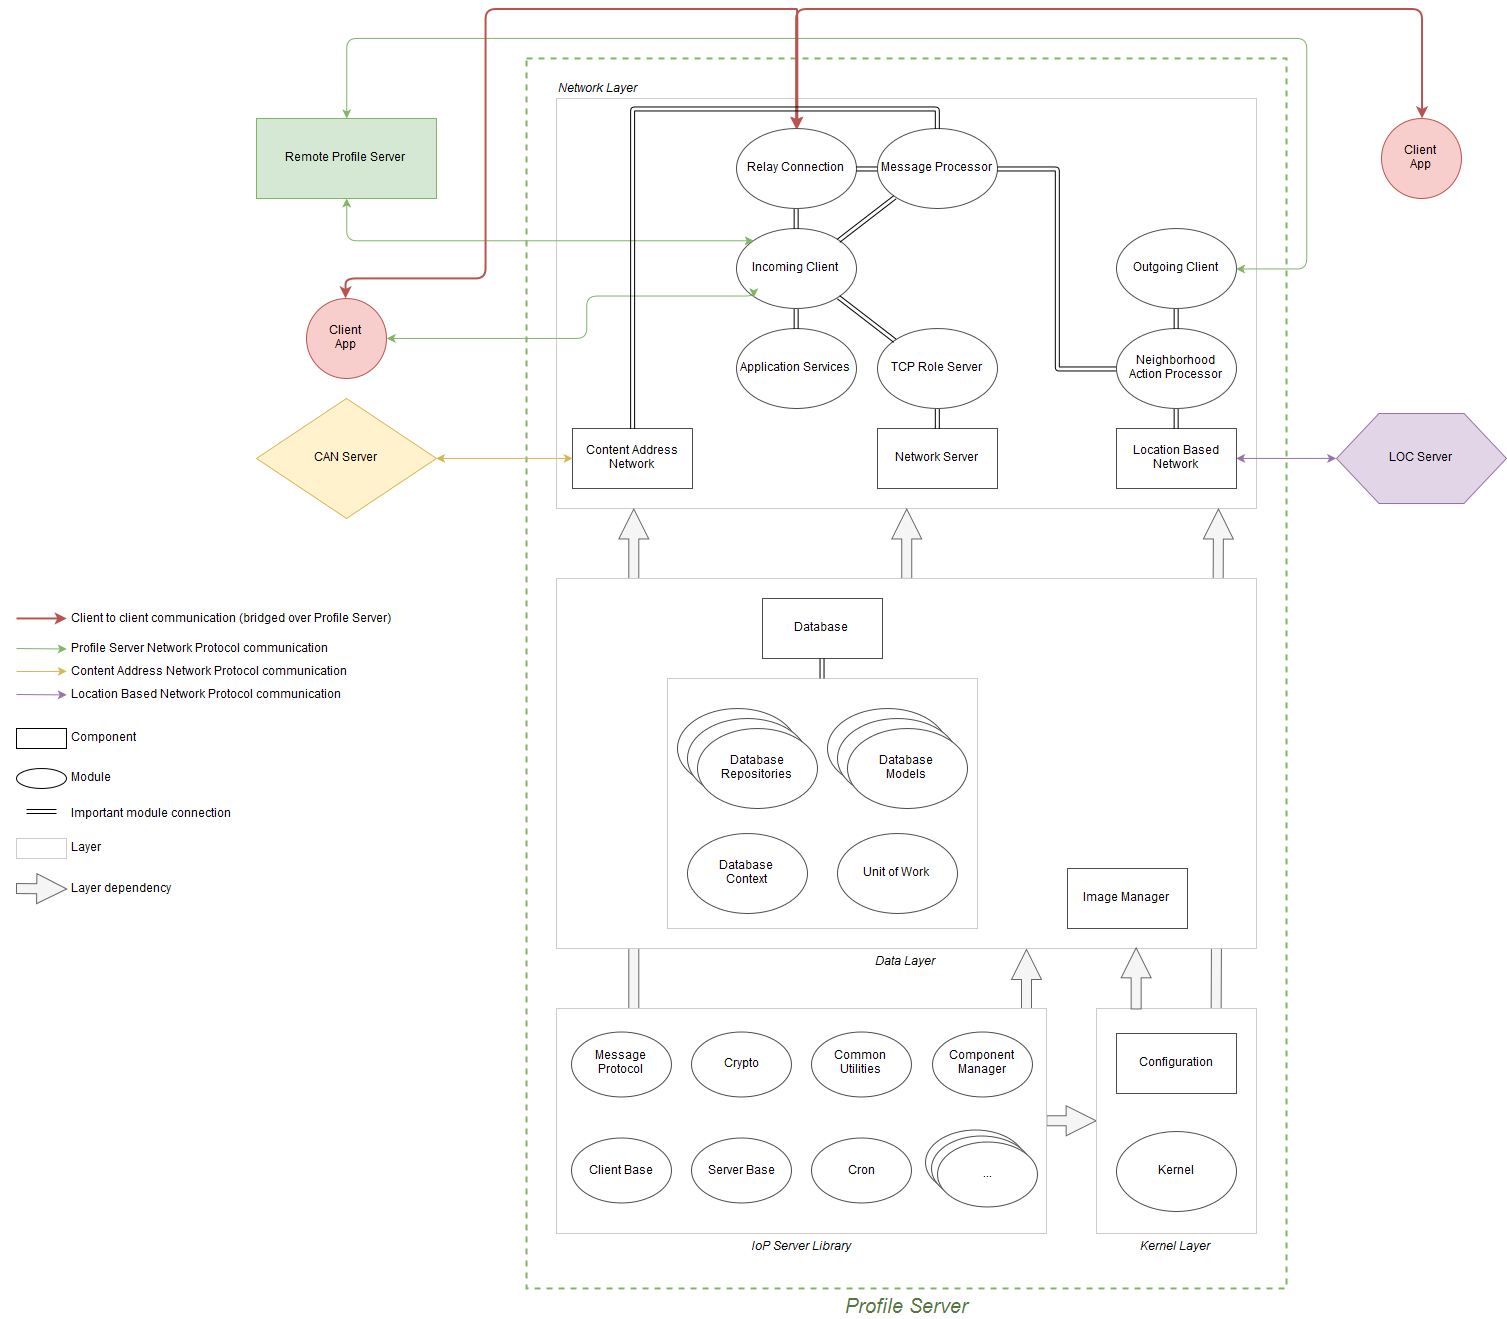
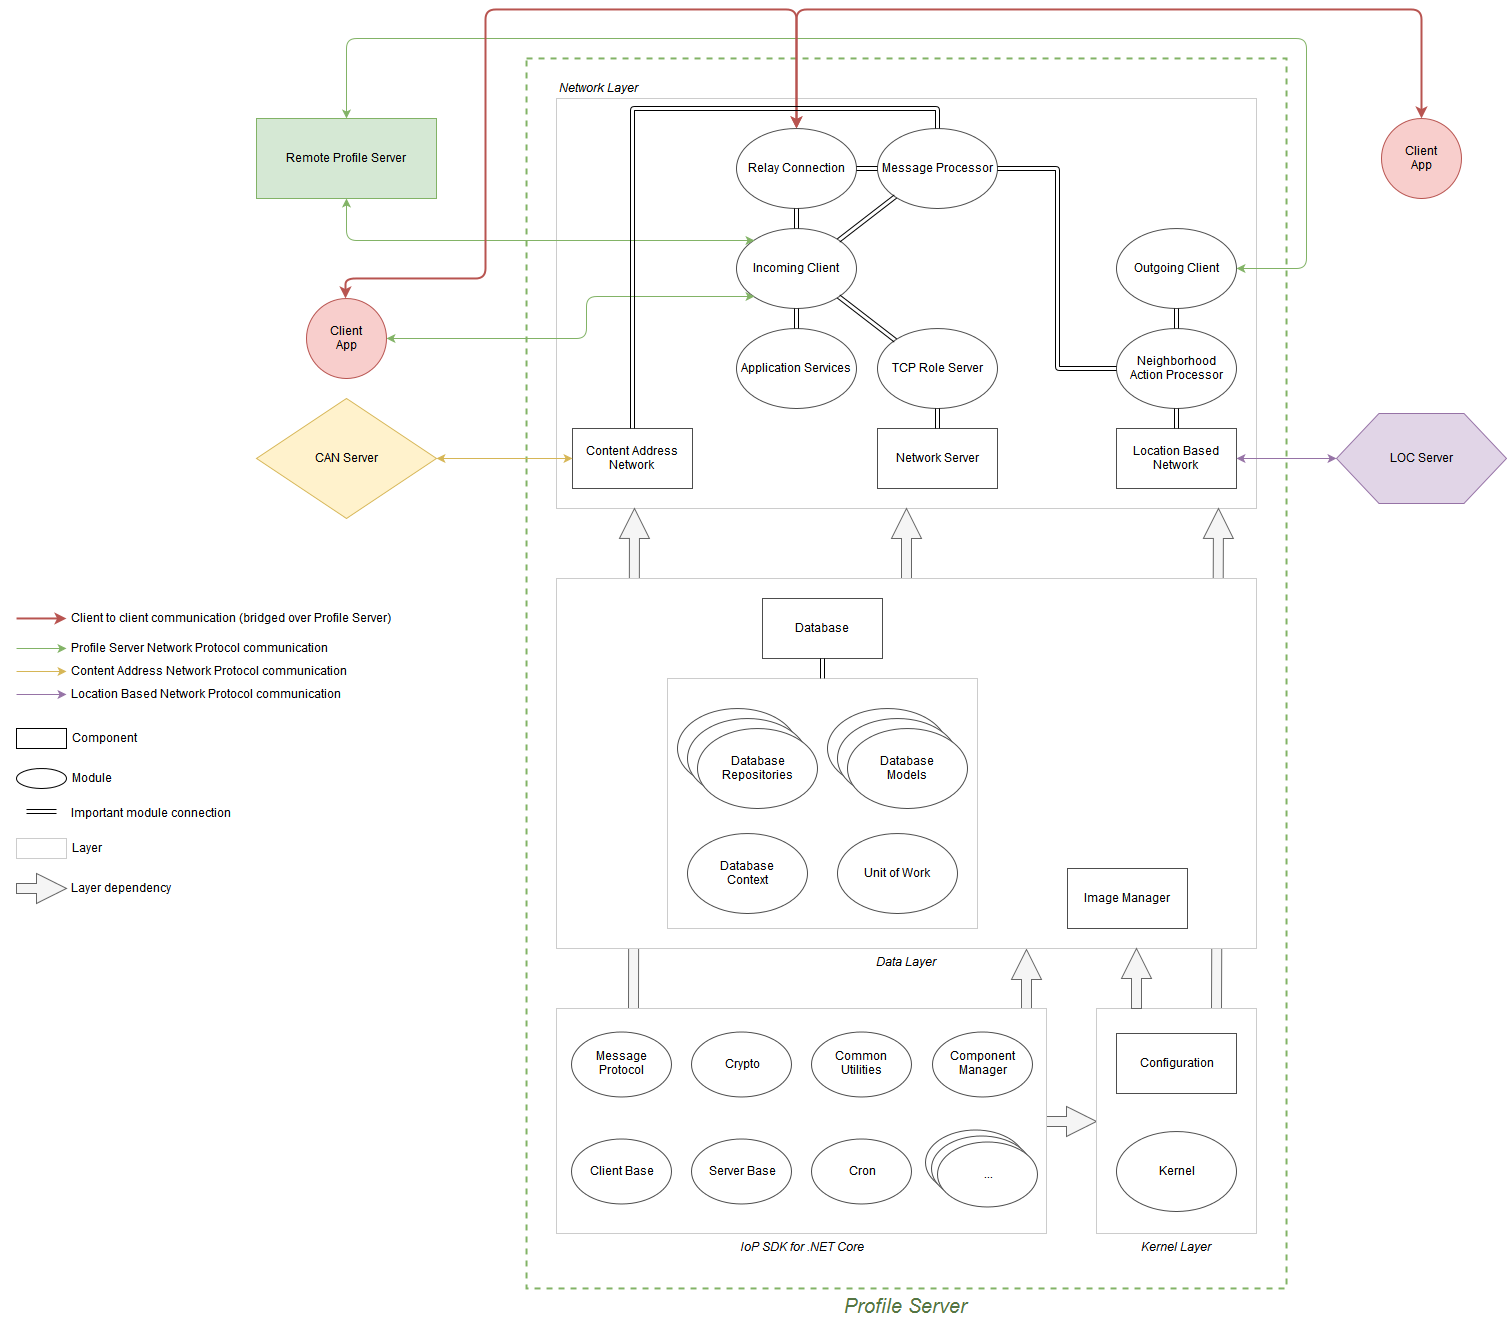
renaming of server library to SDK

diff --git a/docs/INSTALLATION.md b/docs/INSTALLATION.md
@@ -5,7 +5,7 @@ In order to install and run the Profile Server, you need to
  * Install .NET Core,
  * install OpenSSL (needed only for TLS certificate generation),
  * download the latest release Profile Server source codes from GitHub,
-   * AND download IoP Server Library sources,
+   * AND download IoP SDK for .NET Core sources,
    * AND build the Profile Server binaries,
  * OR download the Profile Server binaries and install dependencies,
  * configure the Profile Server,
@@ -30,11 +30,11 @@ The goal here is to download the latest release branch of the source code. If yo
 If you are not familiar with them, simply go to the [Branches Page](https://github.com/Fermat-ORG/iop-profile-server/branches/) of the repository and find a branch that starts with `release/` and click on its name. 
 Then click the *Clone or download* green button on the right side. Then click the *Download ZIP* link and save the file to your disk. Unzip the file to any folder of your choice. This folder will be called `$InstDir` in the text below. 
 
-## Download IoP Server Library Source Codes
+## Download IoP SDK for .NET Core Source Codes
 
-Profile Server project has a dependency on [IoP Server Library](https://github.com/Fermat-ORG/iop-server-library) project. In order to compile Profile Server, you will need to download the source code 
-of IoP Server Library and have it in the right directory. Just as in case of Profile Server, you need to find the latest release branch on the [Branches Page](https://github.com/Fermat-ORG/iop-server-library/branches/) 
-of IoP Server Library repository and download it or clone it. You need to put the source code of IoP Server Library into a directory called `iop-server-library` on the same level as your `$InstDir`. 
+Profile Server project has a dependency on [IoP SDK for .NET Core](https://github.com/Fermat-ORG/iop-sdk-netcore) project. In order to compile Profile Server, you will need to download the source code 
+of IoP SDK for .NET Core and have it in the right directory. Just as in case of Profile Server, you need to find the latest release branch on the [Branches Page](https://github.com/Fermat-ORG/iop-sdk-netcore/branches/) 
+of IoP SDK for .NET Core repository and download it or clone it. You need to put the source code of IoP SDK for .NET Core into a directory called `iop-sdk-netcore` on the same level as your `$InstDir`. 
 
 
 ## Build Profile Server

diff --git a/docs/ARCH-PS-Fundamentals.md b/docs/ARCH-PS-Fundamentals.md
@@ -7,10 +7,10 @@ This particular implementation is a fully asynchronous, multithreaded server wri
 and the further text is related to this implementation only and it may not be accurate for other implementations of IoP Profile Server.
 
 
-## IoP Server Library
+## IoP SDK for .NET Core
 
-Profile server depends on [IoP Server Library](https://github.com/Fermat-ORG/iop-server-library), which is a set of reusable modules that can be used 
-to create IoP network servers as well as clients that connect to them. The following are some examples of what IoP Server Library offers to profile server:
+Profile server depends on [IoP SDK for .NET Core](https://github.com/Fermat-ORG/iop-sdk-netcore), which is a set of reusable modules that can be used 
+to create IoP network servers as well as clients that connect to them. The following are some examples of what IoP SDK for .NET Core offers to profile server:
 
 
 ### Cryptography 
@@ -43,7 +43,7 @@ replaced with a fully mature database engine due to performance reasons. As of n
 
 ## Projects
 
-The development of the profile server consists of several projects. The main profile server project only depends on the IoP Server Library, but there are other project 
+The development of the profile server consists of several projects. The main profile server project only depends on the IoP SDK for .NET Core, but there are other project 
 that support the development:
 
  * [IoP Message Protocol Tests](https://github.com/Fermat-ORG/iop-message-protocol-tests) is a project that contains all functional IoP Network protocol tests related 
